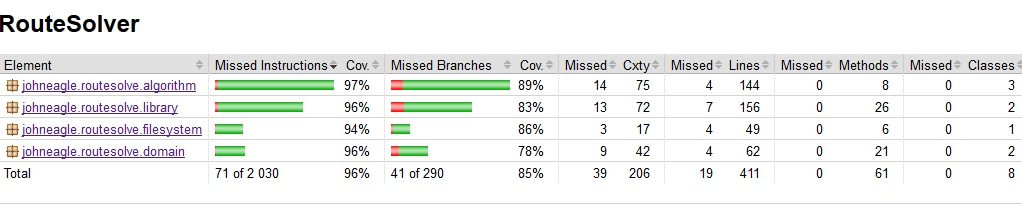
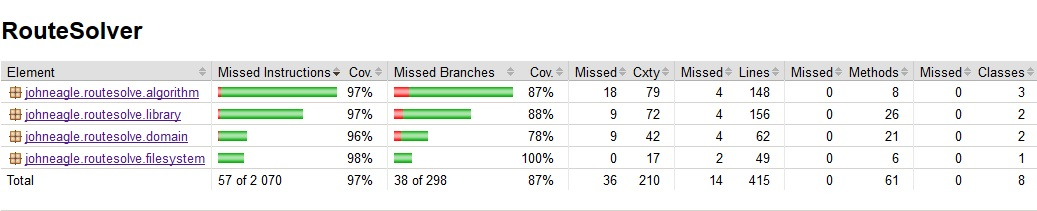
forward going in testing

Changed region(s): [[0.0, 0.2647, 1.0, 0.8824], [0.0, 0.0588, 0.1517, 0.2059]]

diff --git a/src/main/java/johneagle/routesolve/ui/RouteSolver.java b/src/main/java/johneagle/routesolve/ui/RouteSolver.java
@@ -1,7 +1,10 @@
 package johneagle.routesolve.ui;
 
-import johneagle.routesolve.algorithm.*;
-import johneagle.routesolve.domain.*;
+import johneagle.routesolve.algorithm.AStar;
+import johneagle.routesolve.algorithm.Finder;
+import johneagle.routesolve.algorithm.JPS;
+import johneagle.routesolve.domain.Chell;
+import johneagle.routesolve.domain.Map;
 import johneagle.routesolve.filesystem.Reader;
 import johneagle.routesolve.library.DataList;
 
@@ -25,10 +28,33 @@ public class RouteSolver {
 
         asciiMap = new Map();
         Reader fileReader = new Reader();
-
         fileReader.getConfigs("config/config.properties");
-        instructions();
 
+        if (args.length >= 2) {
+            String test = args[0];
+            String mapName = args[1];
+
+            boolean[][] map = fileReader.getMap("mapFiles/" + mapName);
+
+            if (map == null) {
+                System.out.println("Karttaa ei löydetty!");
+                return;
+            } else {
+                asciiMap.setMap(map);
+            }
+
+            if (test.contains("time")) {
+                speedTesting(lukija);
+            } else if (test.contains("memory")) {
+                memoryTesting(lukija);
+            } else {
+                System.out.println("Testin tyyppiä ei tunnistettu!");
+            }
+
+            return;
+        }
+
+        instructions();
         while(true) {
             System.out.print("> ");
             String komento = lukija.nextLine();
@@ -41,10 +67,6 @@ public class RouteSolver {
                 toAddMap(lukija, fileReader);
             } else if (komento.contains("ratkaise reitti")) {
                 toSolve(lukija);
-            } else if (komento.contains("timeTest")) {
-                speedTesting(lukija);
-            } else if (komento.contains("memoryTest")) {
-                memoryTesting(lukija);
             } else {
                 System.out.println("Tuntematon komento!");
             }

diff --git a/src/test/java/johneagle/routesolve/library/DataListTest.java b/src/test/java/johneagle/routesolve/library/DataListTest.java
@@ -32,7 +32,7 @@ public class DataListTest {
     }
 
     @Test
-    public void remove() {
+    public void removeBig() {
         DataList<Integer> list = new DataList<>();
 
         list.add(1);
@@ -51,6 +51,21 @@ public class DataListTest {
         Assert.assertEquals(1, (long) list.get(0));
         Assert.assertNull(list.get(3));
         Assert.assertNull(list.get(2));
+    }
+
+    @Test
+    public void removeSmall() {
+        DataList<Integer> list = new DataList<>();
+
+        list.add(1);
+        list.add(12);
+
+        Object delete = 12;
+        list.remove(delete);
+
+        Assert.assertFalse(list.isEmpty());
+        Assert.assertTrue(list.size() == 1);
+        Assert.assertEquals(1, (long) list.peek());
     }
 
     @Test
@@ -122,7 +137,7 @@ public class DataListTest {
     }
 
     @Test
-    public void pop() {
+    public void popOne() {
         DataList<Integer> list = new DataList<>();
 
         list.add(5);
@@ -134,5 +149,21 @@ public class DataListTest {
         Assert.assertEquals(-12, (long) poped);
         Assert.assertEquals(5, (long) peeked);
         Assert.assertFalse(list.isEmpty());
+    }
+
+    @Test
+    public void popTooMuch() {
+        DataList<Integer> list = new DataList<>();
+
+        list.add(5);
+        list.add(-12);
+
+        Integer poped = list.pop();
+        Integer poped2 = list.pop();
+        Integer poped3 = list.pop();
+
+        Assert.assertEquals(-12, (long) poped);
+        Assert.assertEquals(5, (long) poped2);
+        Assert.assertNull(poped3);
     }
 }

diff --git a/src/main/java/johneagle/routesolve/algorithm/Finder.java b/src/main/java/johneagle/routesolve/algorithm/Finder.java
@@ -24,6 +24,16 @@ public abstract class Finder {
         this.map = map;
     }
 
+    /**
+     * Abstract method that all subclasses have to provide to make initialization of the path solving easier.
+     *
+     * @param startX    Begging x-coordinate.
+     * @param startY    Begging y-coordinate.
+     * @param endX      Destination x-coordinate.
+     * @param endY      Destination y-coordinate.
+     *
+     * @return path as list of Chell objects.
+     */
     public abstract DataList<Chell> getPath(int startX, int startY, int endX, int endY);
 
     /**

diff --git a/src/test/java/johneagle/routesolve/filesystem/ReaderTest.java b/src/test/java/johneagle/routesolve/filesystem/ReaderTest.java
@@ -104,6 +104,21 @@ public class ReaderTest {
         }
     }
 
+    @Test
+    public void terrainUnknown() {
+        this.tempMapFile.setWritable(true);
+        String map = "10001" + "\n" +
+                "01010" + "\n" +
+                "00200" + "\n" +
+                "01010" + "\n" +
+                "10003";
+
+        insertMap(map);
+        boolean[][] matrix = this.reader.getMap(this.tempMapFile.getAbsolutePath());
+
+        Assert.assertNull(matrix);
+    }
+
     @After
     public void restore() {
         this.tempConfig.delete();

diff --git a/src/main/java/johneagle/routesolve/library/DataList.java b/src/main/java/johneagle/routesolve/library/DataList.java
@@ -111,7 +111,7 @@ public class DataList<E> {
      * @return element that was just removed.
      */
     public E remove(int index) {
-        if (actualSize < (maxSize / 2)) {
+        if (actualSize < (maxSize / 3)) {
             double half = 1.0 / 2.0;
             grow(half);
         }

diff --git a/documentation/testausdokumentti.md b/documentation/testausdokumentti.md
@@ -2,11 +2,11 @@
 
 ## Yksikkö testaus
 
-Projektin testien rivikattavuus on 96% ja haarautumakattavuus on 85%. 
+Projektin testien rivikattavuus on 97% ja haarautumakattavuus on 87%. 
 
 ![testikattavuus](kuvat/testikattavuus.jpg)
 
-Haarautumakattavuuden osalta domain on heikoin alue projektista 78%. Yaas seuraavaksi alhaisin on omat tietorakenteet 83%. Tämä johtunee siitä, että tietorakenteiden kaikkien metodien vaihtoehtoja ei kannata jokaista testata erikseen eikä tule normaalisti vastaan. Näistä ei testatuista haarautumista monet kuitenkin ovat harvinaisia erityistapauksia, joten ne eivät ole olennaisia. 
+Haarautumakattavuuden osalta domain on heikoin alue projektista 78%. Monet haarautumista joita testeissä ei käydä läpi on hankala testata. Monesti ne ovat vain jokin erikoistapaus tai vähän käytetty toiminto. Näiden testaaminen kuitenkin voisi tulla oleelliseksi siinä tapauksessa, että niiden merkitys kasvaa. Sillä yleisesti ottaen haarautumakattavuus on kuitenkin hyvä olennaisissa osissa.
 
 Yksikkötesteillä suoraan testattuja luokkia ovat luokat, joissa metodit tekevät jotakin yksinkertaisuudesta poikeavaa. Kaikki testit ovat toteutettu Junitilla, jolloin näiden toistaminen tapahtuu helposti mavenin avulla suorittamalla: _mvn test_.
 

diff --git a/documentation/tuntikirjanpito.md b/documentation/tuntikirjanpito.md
@@ -38,5 +38,6 @@
 23.8 | 5,5 | dokumentaatiota
 24.8 | 1 | raportti
 25.8 | 5 | refaktorointia katselmointi paulautteen perusteella
-total | 109
+25.8 | 1 | suorituskyky testailun materiaalin valinta
+total | 110
 
